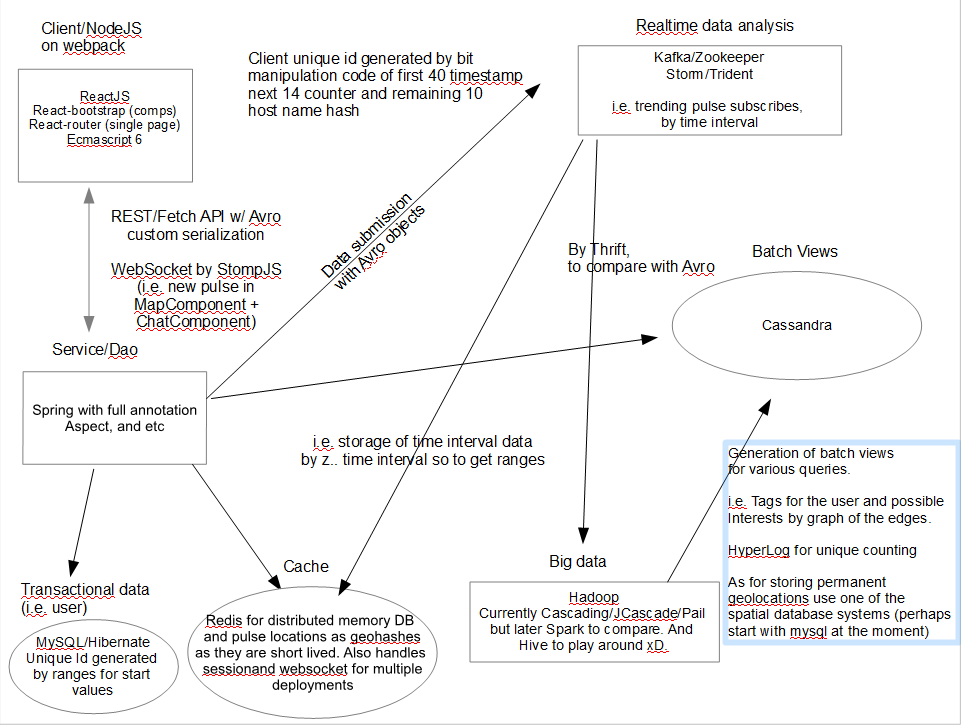
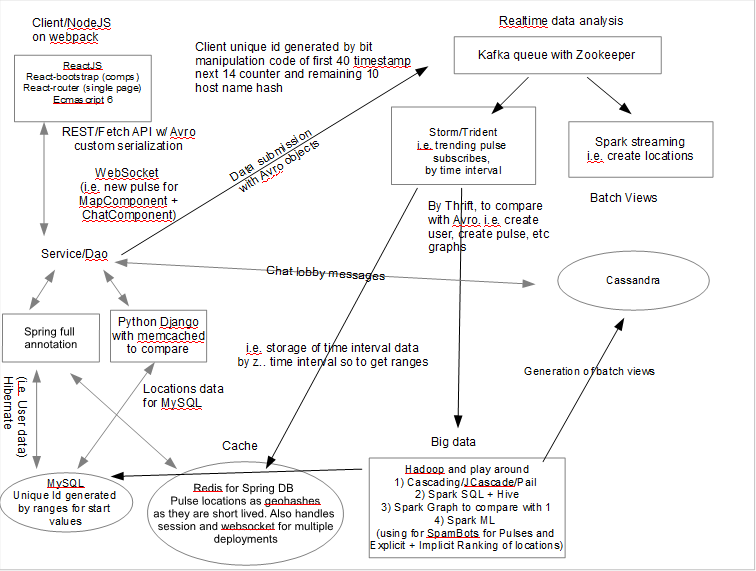
diagram update

diff --git a/README.md b/README.md
@@ -3,7 +3,7 @@ Project for playing around with Lamba architecture/Realtime big data app.
 Allows creation of Pulse which others around the area can subscribe to and when good the group can gogo *-*. For example driving down and one sees a restaurant that one wants to eat at and friends are too far away; create a pulse, get others to join up, and go together xD. Allows chatting for the pulse group as well as creating private chat lobbies.
 
 1. Kafka as queue with Zookeeper
-2. Storm+Trident/Spark-streaming for real time data processing
+2. Storm+Trident/Spark-streaming for real time data processing (both to compare)
 3. Hadoop for HDFS + Yarn
    * Cascading+JCascade+Pail
    * Spark ml for machine learning
@@ -14,7 +14,7 @@ Allows creation of Pulse which others around the area can subscribe to and when 
 4. Avro+Thrift for serializations
 5. Bootstrap+ReactJS+Router+NodeJS
 6. Spring (WebSocket,Aspect, and etc)
-7. Python Django with Memcached (to compare with 5+6)
+7. Python Django with Memcached (to compare)
 8. Java8+Ecmascript6 and etc (i.e. maybe Apache Mesos + Oozie)
 
 ![ScreenShot](https://github.com/JHKTruth/pulsing/blob/master/spring/nonsrc/ssChat.png?raw=true)
